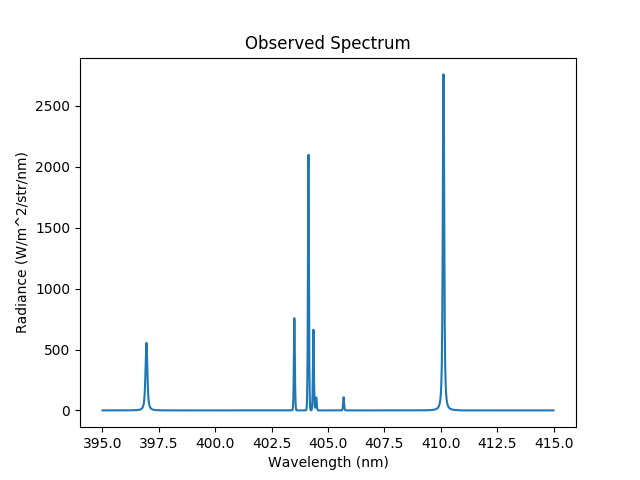
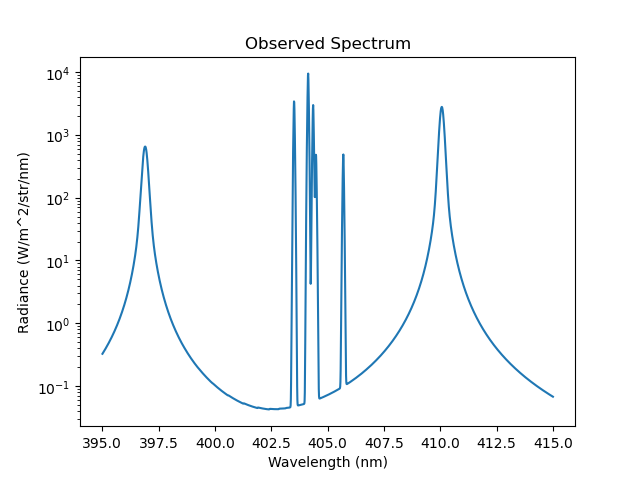
Updated documentation for demos. Changelog update.

diff --git a/docs/source/demonstrations/passive_spectroscopy/stark_zeeman.rst b/docs/source/demonstrations/passive_spectroscopy/stark_zeeman.rst
@@ -1,0 +1,39 @@
+
+.. _stark_zeeman:
+
+Stark-Zeeman line shape
+=======================
+
+In B. Lomanowski, et al. "Inferring divertor plasma properties from hydrogen Balmer
+and Paschen series spectroscopy in JET-ILW." Nuclear Fusion 55.12 (2015)
+`123028 <https://doi.org/10.1088/0029-5515/55/12/123028>`_ Stark and Zeeman features
+are treated independently. This is a simplification and for better accuracy these effects
+must be taken into account jointly as in J. Rosato, Y. Marandet, R. Stamm,
+Journal of Quantitative Spectroscopy & Radiative Transfer 187 (2017)
+`333 <https://doi.org/10.1016/j.jqsrt.2016.10.005>`_.
+
+The StarkBroadenedLine() follows the Lomanowski's paper, but introduces a couple of additional
+approximations:
+
+* Zeeman splitting is taken in the form of a simple triplet with a :math:`\pi`-component
+  centred at :math:`h\nu`, :math:`\sigma^{+}`-component at :math:`\frac{hc}{h\nu-\mu B}`
+  and :math:`\sigma^{-}`-component at :math:`\frac{hc}{h\nu+\mu B}`.
+* The convolution of Stark-Zeeman and Doppler profiles is replaced with the weighted sum
+  to speed-up calculations (`pseudo-Voigt <https://en.wikipedia.org/wiki/Voigt_profile#Pseudo-Voigt_approximation>`_ approximation).
+
+This example calculates Balmer-alpha and Paschen-beta Stark-Zeeman spectral lines
+for the same parameters of plasma as in Figure 2 in Lomanowski's paper.
+
+.. literalinclude:: ../../../../demos/emission_models/stark_zeeman.py
+
+.. figure:: stark_zeeman_balmer_alpha.png
+   :align: center
+   :width: 450px
+
+   **Caption:** The Stark-Zeeman structure of the Balmer-alpha line.
+
+.. figure:: stark_zeeman_paschen_beta.png
+   :align: center
+   :width: 450px
+
+   **Caption:** The Stark-Zeeman structure of the Paschen-beta line.

diff --git a/docs/source/demonstrations/passive_spectroscopy/stark_broadening.rst b/docs/source/demonstrations/passive_spectroscopy/stark_broadening.rst
@@ -12,9 +12,15 @@ electric field due to the presence of neighbouring ions. In normal tokamak
 operations this effect is negligible, except in the divertor region.
 
 It is possible to override the default doppler broadened line shape by
-specifying the StarkBroadenedLine() lineshape class. In this example
-we can see two stark broadened balmer series lines surrounding a
-Nitrogen II multiplet feature.
+specifying the StarkBroadenedLine() lineshape class.
+This class suppors Balmer and Paschen series and is based on
+the Stark-Doppler-Zeeman line shape model from B. Lomanowski, et al.
+"Inferring divertor plasma properties from hydrogen Balmer
+and Paschen series spectroscopy in JET-ILW." Nuclear Fusion 55.12 (2015)
+`123028 <https://doi.org/10.1088/0029-5515/55/12/123028>`_.
+In this example we can see two stark broadened balmer series lines surrounding a
+Nitrogen II multiplet feature. The logarithmic scale is chosen to illustrate
+the power-law decay of the Stark-broadened line wings.
 
 .. literalinclude:: ../../../../demos/emission_models/stark_broadening.py
 
@@ -23,11 +29,4 @@ Nitrogen II multiplet feature.
    :width: 450px
 
    **Caption:** The observed spectrum with two stark broadened balmer lines
-   (397nm and 410nm) surrounding a NII multiplet feature.
-
-.. figure:: stark_line_zoomed.png
-   :align: center
-   :width: 450px
-
-   **Caption:** A zoomed in view of the 410nm Balmer line revealing the
-   characteristic stark broadened lineshape.
+   (397nm and 410nm) surrounding a NII multiplet feature in the logarithmic scale.

diff --git a/docs/source/demonstrations/demonstrations.rst b/docs/source/demonstrations/demonstrations.rst
@@ -151,16 +151,21 @@ Passive Spectroscopy
      - .. image:: ./passive_spectroscopy/multiplet_spectrum.png
           :height: 150px
           :width: 150px
-   * - :ref:`Stark Broadened Lines <stark_broadening>`
-     - Specifying a Stark broadened lineshape instead of Doppler broadening.
-     - .. image:: ./passive_spectroscopy/stark_line_zoomed.png
-          :height: 150px
-          :width: 150px
    * - :ref:`Zeeman Spectroscopy <zeeman_spectroscopy>`
      - Specifying a Zeeman triplet or multiplet line shapes.
      - .. image:: ./passive_spectroscopy/zeeman_spectrum_45deg.png
           :height: 150px
-          :width: 150px   
+          :width: 150px
+   * - :ref:`Stark Broadened Lines <stark_broadening>`
+     - Specifying a Stark broadened lineshape.
+     - .. image:: ./passive_spectroscopy/stark_spectrum.png
+          :height: 150px
+          :width: 150px
+   * - :ref:`Stark-Zeeman Lines <stark_zeeman>`
+     - Modelling Stark-Zeeman lineshapes.
+     - .. image:: ./passive_spectroscopy/stark_zeeman_balmer_alpha.png
+          :height: 150px
+          :width: 150px
 
 
 Bolometry

diff --git a/CHANGELOG.md b/CHANGELOG.md
@@ -1,6 +1,15 @@
 Project Changelog
 =================
 
+Release 1.5.0 (TBD)
+-------------------
+
+API changes:
+* The line shape models are moved to a dedicated submodule. The user code should not be affected though. (#396)
+
+New:
+* StarkBroadenedLine now supports Doppler broadening and Zeeman splitting. (#393)
+
 Release 1.4.0 (TBD)
 -------------------
 
